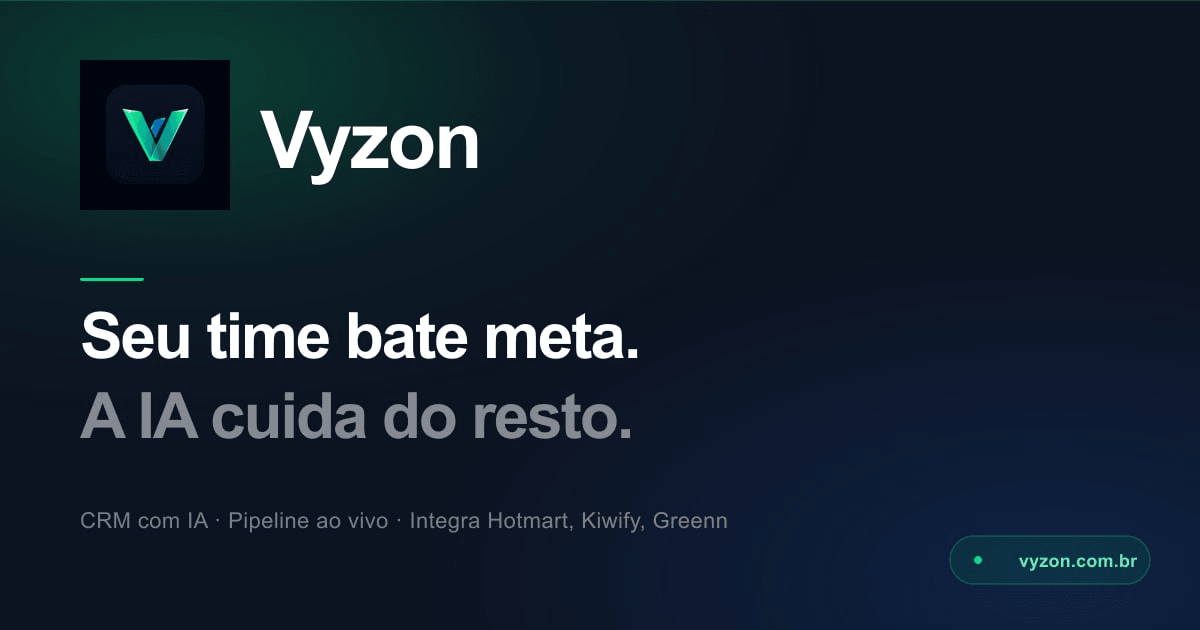
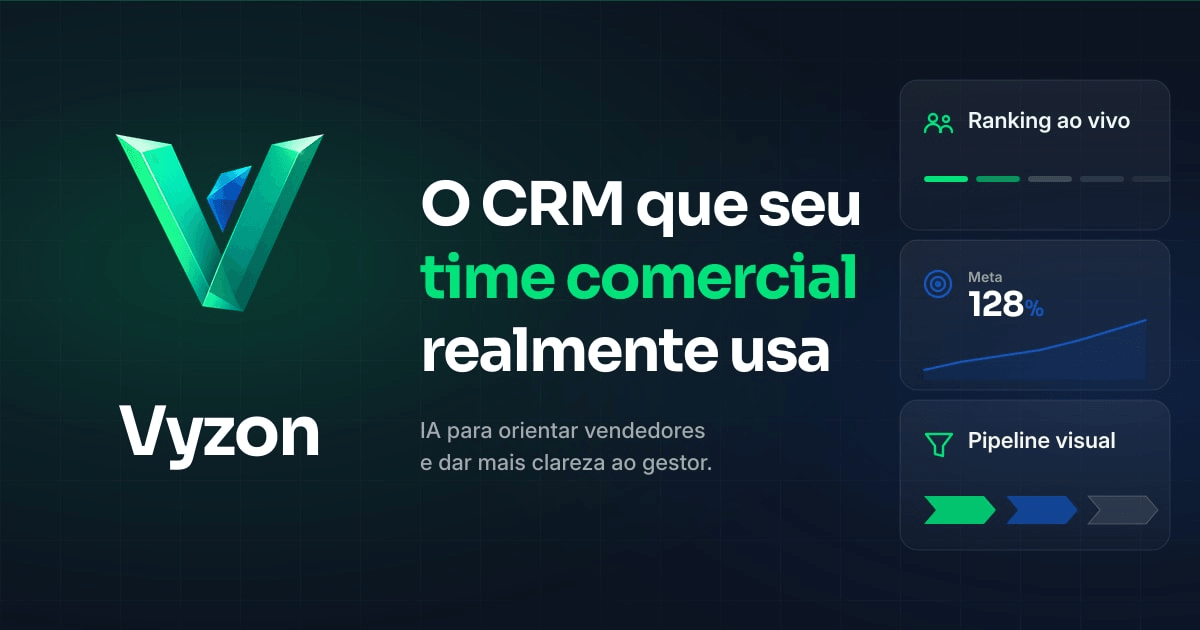
chore(og): regenera asset físico 1200x630 com layout aprovado
Reescreve buildOgImage no script de marca pra refletir a direção visual
da wave 4: logo V real à esquerda + wordmark abaixo, headline em 3 linhas
com "time comercial" em emerald, subheadline curta sobre IA como apoio
(orientar vendedor + clarear gestão), 3 cards minimalistas à direita
(Ranking ao vivo, Meta 128%, Pipeline visual). Sem dashboard poluído,
sem CTA, sem promessa exagerada de IA.

Mudanças no script:
- Resolução de paths: SRC_DIR continua respeitando o diretório do dev
  (Windows), mas agora detecta ausência e cai pra /public/logo.png como
  fonte do logo. buildFavicons só roda quando os assets-fonte do dev
  estão disponíveis — assim CI/Linux gera só o OG sem quebrar.
- Background: grid pattern + glow emerald esquerdo + glow azul direito.
- Logo PNG (280x280) sobreposto, wordmark Sora bold abaixo.
- Headline: 3 linhas Sora 60 bold, "time comercial" em #00E37A.
- Subhead: Inter 22 medium, 2 linhas — "IA para orientar vendedores /
  e dar mais clareza ao gestor."
- 3 cards SVG: rect rounded + ícone (people/target/funnel) + título +
  decoração (mini progress bars / sparkline / chevrons coloridos).

Cache bust: ?v=3 → ?v=4 em index.html (3 ocorrências: og:image,
twitter:image, screenshot do JSON-LD SoftwareApplication).

Asset físico:
- public/og-image.jpg: 1200x630 progressive JPEG quality 90 (71 KB).
- public/og-image.png: fallback PNG (112 KB).
- Renderização verificada visualmente — todos os 3 cards, headline,
[…]

diff --git a/index.html b/index.html
@@ -77,7 +77,7 @@
   <meta property="og:title" content="Vyzon | CRM de Performance Comercial com Ranking, Metas e Pipeline" />
   <meta property="og:description"
     content="O CRM que seu time comercial realmente usa. Metas, ranking ao vivo, pipeline visual e automações para times que vivem de meta. 14 dias grátis." />
-  <meta property="og:image" content="https://vyzon.com.br/og-image.jpg?v=3" />
+  <meta property="og:image" content="https://vyzon.com.br/og-image.jpg?v=4" />
   <meta property="og:image:width" content="1200" />
   <meta property="og:image:height" content="630" />
   <meta property="og:locale" content="pt_BR" />
@@ -89,7 +89,7 @@
   <meta name="twitter:title" content="Vyzon | CRM de Performance Comercial com Ranking, Metas e Pipeline" />
   <meta name="twitter:description"
     content="O CRM que seu time comercial realmente usa. Metas, ranking ao vivo, pipeline visual e automações. 14 dias grátis." />
-  <meta name="twitter:image" content="https://vyzon.com.br/og-image.jpg?v=3" />
+  <meta name="twitter:image" content="https://vyzon.com.br/og-image.jpg?v=4" />
   <meta name="twitter:creator" content="@vyzonapp" />
 
   <!-- Sora (brand font — Vyzon wordmark) + Inter + Satoshi self-hosted em /public/fonts/.
@@ -158,7 +158,7 @@
       "Dashboard do gestor",
       "Gestão de follow-up"
     ],
-    "screenshot": "https://vyzon.com.br/og-image.jpg?v=3"
+    "screenshot": "https://vyzon.com.br/og-image.jpg?v=4"
   }
   </script>
   <script type="application/ld+json">